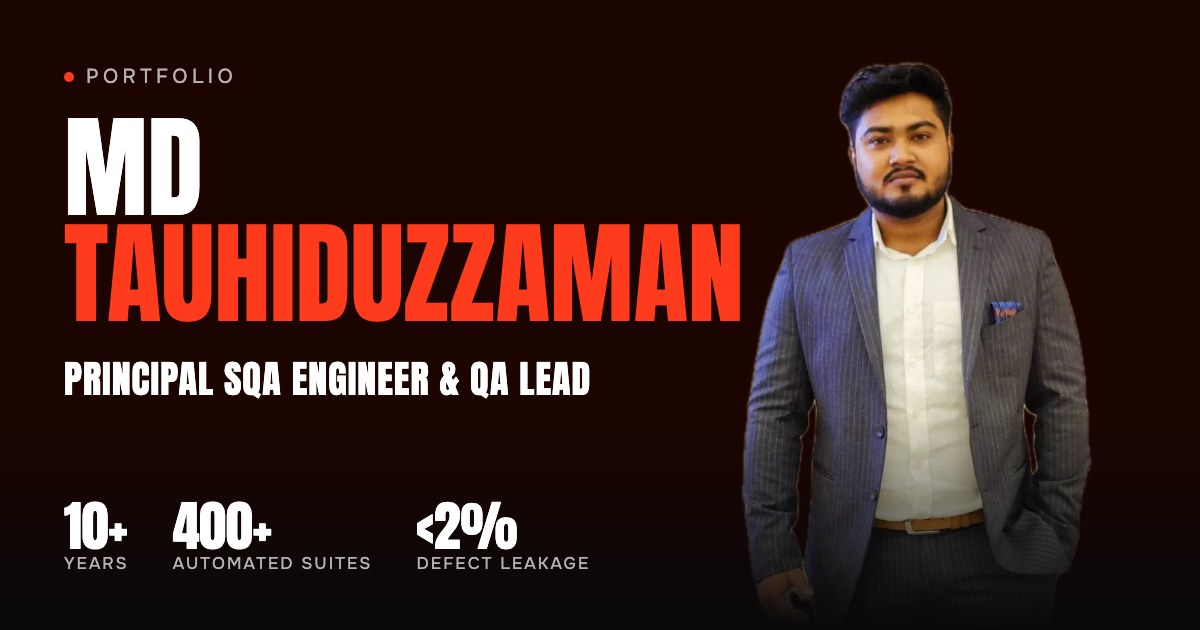
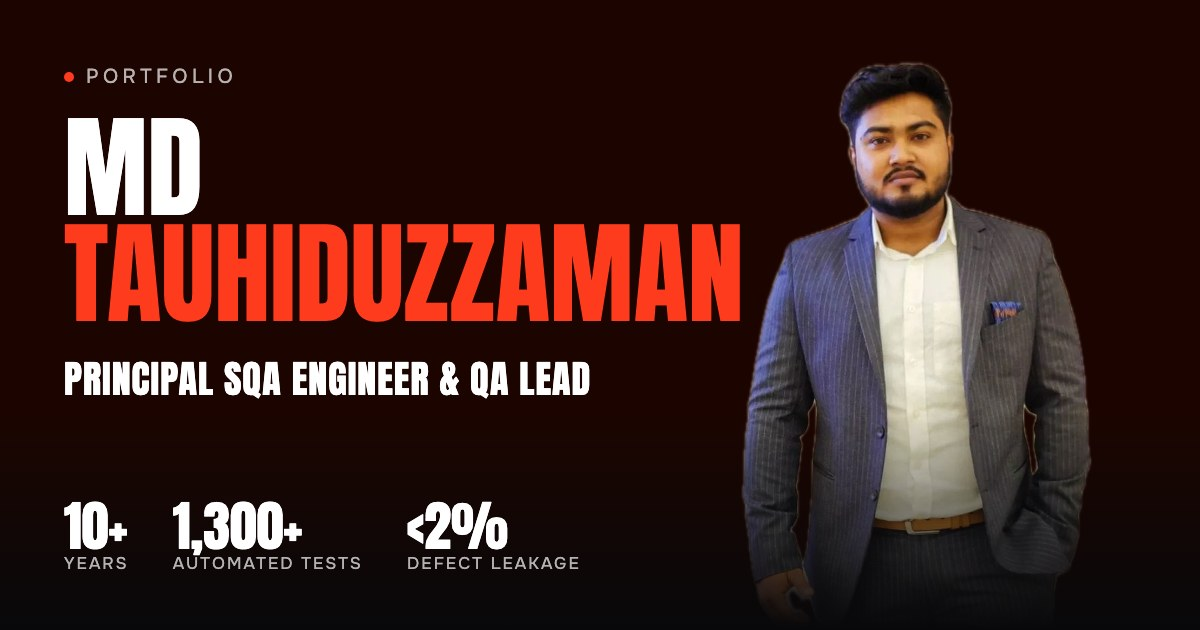
Recalculate headline totals with visible breakdowns
Show 1,300+ automated tests, suites and API endpoints (400 suites + 450
UI + 450 API) and 8M+ users (Ami Probashi 7M+, CityTouch 900K+, Bank Asia
ZEN ~1M), with the arithmetic under each figure. Use Ami Probashi's own
published 7M+ everywhere instead of the unsupported 9M+.

Changed region(s): [[0.3392, 0.7841, 0.4933, 0.9048], [0.1233, 0.7841, 0.2467, 0.8746], [0.2467, 0.8746, 0.3083, 0.9048]]

diff --git a/index.html b/index.html
@@ -4,9 +4,9 @@
 <meta charset="UTF-8">
 <meta name="viewport" content="width=device-width, initial-scale=1.0">
 <title>MD Tauhiduzzaman — Principal SQA Engineer &amp; QA Lead</title>
-<meta name="description" content="Principal SQA Engineer and QA Lead with 10+ years across fintech, banking, insurance, healthcare and e-commerce. 400+ automated test suites, production defect leakage cut from ~18% to below 2%.">
+<meta name="description" content="Principal SQA Engineer and QA Lead with 10+ years across fintech, banking, insurance, healthcare and e-commerce. 1,300+ automated tests, suites and API endpoints, production defect leakage cut from ~18% to below 2%.">
 <meta property="og:title" content="MD Tauhiduzzaman — Principal SQA Engineer &amp; QA Lead">
-<meta property="og:description" content="10+ years leading QA strategy, AI-driven test automation and release sign-off. 400+ automated test suites. Defect leakage from ~18% to below 2%.">
+<meta property="og:description" content="10+ years leading QA strategy, AI-driven test automation and release sign-off. 1,300+ automated tests, suites and API endpoints. Defect leakage from ~18% to below 2%.">
 <meta property="og:type" content="website">
 <meta property="og:url" content="https://mdtauhiduzzamanshuvo.github.io/MD-Tauhiduzzaman/">
 <meta property="og:image" content="https://mdtauhiduzzamanshuvo.github.io/MD-Tauhiduzzaman/img/og.jpg">
@@ -19,7 +19,7 @@
 <link rel="preconnect" href="https://fonts.googleapis.com">
 <link rel="preconnect" href="https://fonts.gstatic.com" crossorigin>
 <link href="https://fonts.googleapis.com/css2?family=Anton&family=Onest:wght@400;500;600&display=swap" rel="stylesheet">
-<link rel="stylesheet" href="style.css?v=558dd9f5">
+<link rel="stylesheet" href="style.css?v=a5b3a97f">
 <noscript><style>.preloader{display:none}[data-reveal],.hero-roles .rl-in,.hero-name .ch,.hero-portrait{opacity:1;transform:none}</style></noscript>
 <script type="application/ld+json">
 {"@context":"https://schema.org","@type":"Person","name":"MD Tauhiduzzaman","jobTitle":"Principal SQA Engineer","worksFor":{"@type":"Organization","name":"KAZ Software"},"url":"https://mdtauhiduzzamanshuvo.github.io/MD-Tauhiduzzaman/","image":"https://mdtauhiduzzamanshuvo.github.io/MD-Tauhiduzzaman/img/og.jpg","email":"mailto:tauhidshuvo01@gmail.com","address":{"@type":"PostalAddress","addressLocality":"Dhaka","addressCountry":"BD"},"sameAs":["https://linkedin.com/in/md-tauhiduzzaman-shuvo","https://github.com/MDTauhiduzzamanShuvo"],"knowsAbout":["Software Quality Assurance","Test Automation","Selenium","Mabl","REST API Testing","Performance Testing","Scrum"]}
@@ -105,7 +105,7 @@
 
     <ul class="hero-proof" data-reveal style="--d:1750ms" aria-label="Key results">
       <li><b>10+</b><span>Years in software quality</span></li>
-      <li><b>400+</b><span>Automated test suites built</span></li>
+      <li><b>1,300+</b><span>Automated tests, suites &amp; API endpoints</span></li>
       <li><b>&lt;2%</b><span>Defect leakage, down from ~18%</span></li>
     </ul>
 
@@ -187,16 +187,18 @@
         <dt>Years in software quality</dt>
       </div>
       <div data-reveal style="--d:110ms">
-        <dd><span data-count="400">400</span>+</dd>
-        <dt>Automated test suites built</dt>
+        <dd><span data-count="1300">1,300</span>+</dd>
+        <dt>Automated tests, suites &amp; API endpoints</dt>
+        <p class="stat-note">400+ suites &middot; 450+ UI cases &middot; 450+ API endpoints</p>
       </div>
       <div data-reveal style="--d:220ms">
         <dd>&lt;2%</dd>
         <dt>Defect leakage, down from ~18%</dt>
       </div>
       <div data-reveal style="--d:330ms">
-        <dd><span data-count="9">9</span>M+</dd>
+        <dd><span data-count="8">8</span>M+</dd>
         <dt>Users on platforms tested</dt>
+        <p class="stat-note">Ami Probashi 7M+ &middot; CityTouch 900K+ &middot; Bank Asia ZEN ~1M</p>
       </div>
     </dl>
 
@@ -213,7 +215,7 @@
         <span class="cl"><span class="plate"><img decoding="async" src="img/logos/wipro.svg" alt="Wipro"></span><span class="cl-txt"><b>Wipro</b><i>Via Devensoft</i></span></span>
         <span class="cl"><span class="plate wide"><img decoding="async" src="img/logos/mcps.png" alt="Montgomery County Public Schools"></span><span class="cl-txt"><b>MCPS</b><i>Public-sector Education</i></span></span>
         <span class="cl"><span class="plate"><img decoding="async" src="img/logos/unipet.png" alt="Unipet"></span><span class="cl-txt"><b>Unipet</b><i>Fuel Retail &middot; Trinidad &amp; Tobago</i></span></span>
-        <span class="cl"><span class="plate"><img decoding="async" src="img/logos/amiprobashi.svg" alt="Ami Probashi"></span><span class="cl-txt"><b>Ami Probashi</b><i>9M+ Users</i></span></span>
+        <span class="cl"><span class="plate"><img decoding="async" src="img/logos/amiprobashi.svg" alt="Ami Probashi"></span><span class="cl-txt"><b>Ami Probashi</b><i>7M+ Users</i></span></span>
       </div>
     </div>
   </section>
@@ -329,7 +331,7 @@
         <div class="proj-id" data-reveal><span class="proj-mark icon"><img src="img/logos/amiprobashi.svg" alt="Ami Probashi" decoding="async"></span></div>
         <h3 class="proj-title" data-reveal>Ami Probashi</h3>
         <p class="lead" data-reveal>A digital platform for overseas-employment services used by Bangladeshi migrant workers. I led test design and execution for new releases.</p>
-        <p class="proj-big" data-reveal><b>9M+</b><span>Active users</span></p>
+        <p class="proj-big" data-reveal><b>7M+</b><span>Active users</span></p>
         <p class="role-out" data-reveal><span>Public services</span><span>Web &amp; mobile</span></p>
       </div>
       <figure class="shot shot--dark" data-reveal style="--d:120ms">
@@ -470,10 +472,10 @@
         <div class="role-main">
           <h3>Senior Engineer, SQA <span>QA Lead &amp; Scrum Master</span></h3>
           <ul class="role-points">
-            <li>Led test case design and execution for new releases on a platform serving 9M+ users.</li>
+            <li>Led test case design and execution for new releases on a platform serving millions of migrant workers (7M+ users today).</li>
             <li>Performed change-impact analysis before releases to scope regression accurately; built Postman/Newman API automation alongside security and load testing.</li>
           </ul>
-          <p class="role-out"><span>9M+ users</span></p>
+          <p class="role-out"><span>7M+ users</span></p>
           <p class="role-clients">Client: Ami Probashi, migrant worker services platform</p>
         </div>
       </li>
@@ -690,6 +692,6 @@
   </div>
 </footer>
 
-<script src="script.js?v=558dd9f5"></script>
+<script src="script.js?v=a5b3a97f"></script>
 </body>
 </html>

diff --git a/style.css b/style.css
@@ -412,6 +412,7 @@ section{padding:var(--section) var(--gutter);border-bottom:1px solid var(--line)
 .stats dd{font-family:var(--font-display);font-size:var(--t-display);line-height:1;transition:color 340ms ease;font-variant-numeric:tabular-nums}
 .stats > div:hover dd{color:var(--accent)}
 .stats dt{max-width:20ch;text-transform:uppercase;letter-spacing:0.14em;color:var(--muted)}
+.stat-note{max-width:26ch;font-size:0.72rem;line-height:1.5;text-transform:uppercase;letter-spacing:0.1em;color:var(--accent)}
 
 /* ---------- credentials ---------- */
 .cred-grid{margin-top:4rem;display:grid;grid-template-columns:1fr;gap:4rem}
